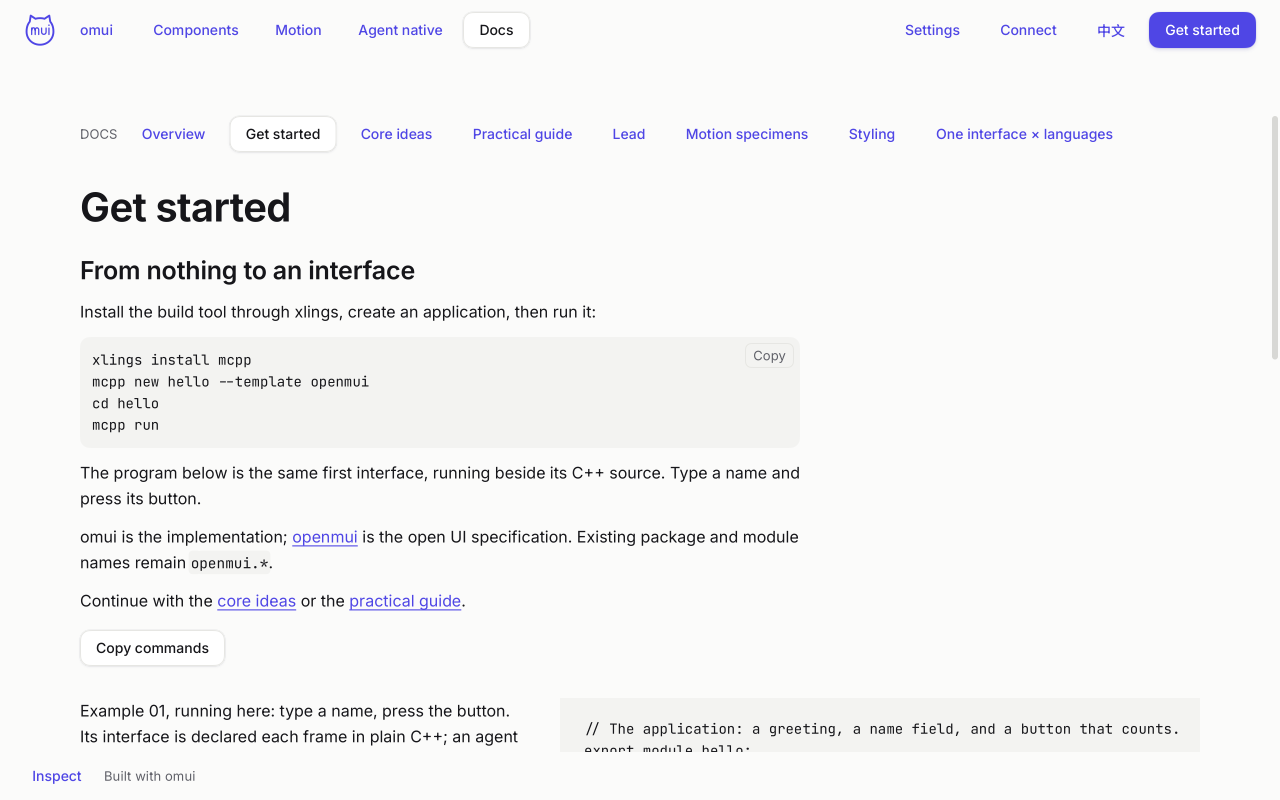
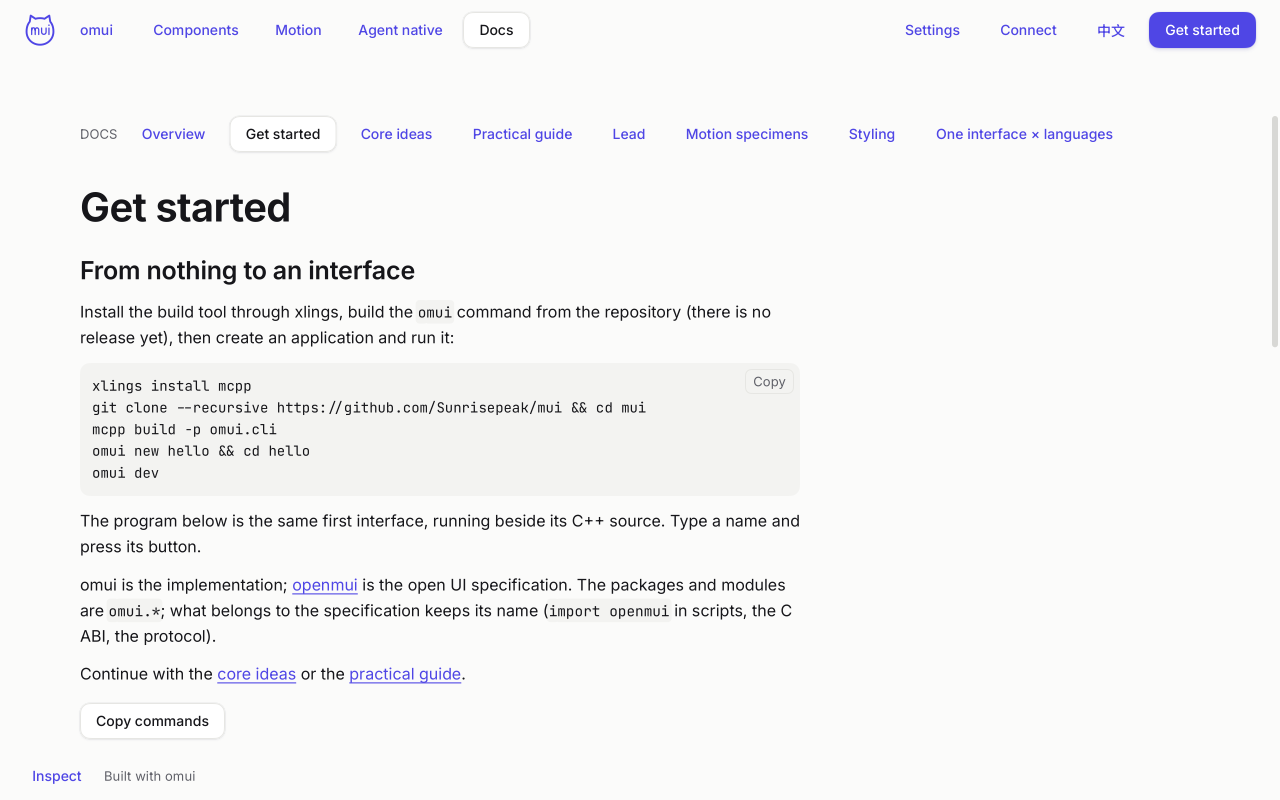
Red 116: the site's stills drawn again, its quick start corrected; headless follows a display's scale only
CI's site job (67a3a764) held site/media/structure-hello-en-desktop.png to what the tests draw: red 115 re-pinned the pixels after example 01's source changed on the page, not the published still. The suite run green at head and omui-devtools media site copied it, with the components overview (the tree's indent guides).
The page's quick start said mcpp new --template openmui (no such template) and that the packages remain openmui.*: now the guide's path — omui built from the repository, omui new, omui dev — and the packages omui.*, the specification's names kept for what is the specification's; the copy button's text and the docs search case follow. Pixels re-pinned (65e43a4856d7436f).
Headless: RC3.6's scale change followed, the window's size not — a test resizing the layout inside it and a recording over the change keep one canvas (agent_transition_layout and component_motion failed with the size followed).
Evidence: site 37 cases green locally (dev); headless_test; media site copied after a green suite.

diff --git a/modules/projects/omui/host/headless/tests/headless_test.cpp b/modules/projects/omui/host/headless/tests/headless_test.cpp
@@ -142,7 +142,7 @@ UTest cases{"headless", [] {
         expect(!h1.png().has_value()) << "no pixels at H1";
     };
 
-    "moved to a display of another scale, or resized: the pixels follow, the same as if it had started there (RC3.6)"_test = [] {
+    "moved to a display of another scale: the pixels follow, the same as if it had started there; back, as before (RC3.6)"_test = [] {
         Headless h(at(HeadlessLevel::pixels));
         Counter c;
         h.mount("main", c.view());
@@ -165,10 +165,8 @@ UTest cases{"headless", [] {
             same = std::ranges::equal(std::span(px.row(y), static_cast<std::size_t>(px.width())), std::span(want.row(y), static_cast<std::size_t>(want.width())),
                                       [](const auto& one, const auto& other_pixel) { return one.r == other_pixel.r && one.g == other_pixel.g && one.b == other_pixel.b && one.a == other_pixel.a; });
         expect(same) << "the same pixels as a window that opened on the 2x display";
-        h.step({ResizeEvent{{300, 160}, 2.0f}});
-        expect(h.pixels().width() == 600 && h.pixels().height() == 320) << "resized there";
-        h.step({ResizeEvent{{300, 160}, 1.0f}});
-        expect(h.pixels().width() == 300 && h.pixels().height() == 160) << "and back on a 1x display";
+        h.step({ResizeEvent{{240, 120}, 1.0f}});
+        expect(h.pixels().width() == 240 && h.pixels().height() == 120) << "and back on a 1x display";
     };
 
     "a recording: frames kept, written as an animated PNG whose first frame is the first kept"_test = [] {

diff --git a/site/tests/site/site_test.cpp b/site/tests/site/site_test.cpp
@@ -979,7 +979,7 @@ static UTest cases{"site", [] {
         // Re-pinned with the lead page (Part 2 §2.3): the docs' directory lists "Lead" after the practical guide.
         // Re-pinned with D-138: the docs say C++, TypeScript and view documents (features §4, the practical
         // guide's table), the interface page compares C++ and TypeScript, the combobox sample picks how a view is written.
-        expect(eq(all.hex(), std::string("b91df5b07125b4fa")));
+        expect(eq(all.hex(), std::string("65e43a4856d7436f")));
     };
 
     "the components: curated search, live detail, reset, languages and scoped appearance"_test = [] {
@@ -1181,7 +1181,7 @@ static UTest cases{"site", [] {
         expect(a.h.tree().node(read + "results/hello/open").has_value());
         expect(a.h.tree().node(read + "results/features/open").has_value());
         expect(a.h.tree().node("main/bar/nav/to_docs")->states.has(State::selected));
-        Invocation input; input.args = Value{}.set("value", "mcpp new");
+        Invocation input; input.args = Value{}.set("value", "omui new");
         expect(a.h.tree().act(read + "search", "set_value", input).exit_code() == std::optional<int>(0)); a.h.settle();
         expect(a.h.tree().node(read + "results/hello/open").has_value()) << "search includes guide content";
         input.args = Value{}.set("value", "no-such-guide-12345");

diff --git a/modules/projects/omui/host/headless/src/headless.cpp b/modules/projects/omui/host/headless/src/headless.cpp
@@ -179,10 +179,10 @@ FrameOutput Headless::step(std::vector<InputEvent> events, std::optional<seconds
         in.attribution = attribution;
     }
     FrameOutput out = d.runtime->frame(in);
-    // The window resized or moved to a display of another scale (a ResizeEvent, as a window's host gives it):
-    // its pixels follow, drawn again at the new size and scale.
-    if (d.runtime->size() != d.options.size || d.runtime->scale() != d.options.scale) {
-        d.options.size = d.runtime->size();
+    // Moved to a display of another scale (a ResizeEvent's scale, as a window's host gives it): its pixels follow,
+    // drawn again at the new scale. The window's size stays the host's (a test resizing the layout within it, a
+    // recording over the change, keep one canvas).
+    if (d.runtime->scale() != d.options.scale) {
         d.options.scale = d.runtime->scale();
         d.have_pixels = false;
     }

diff --git a/.agents/docs/STATUS.md b/.agents/docs/STATUS.md
@@ -147,6 +147,7 @@ Kind: R regression, E environment, F flaky or time, T test expectation.
 | 113 | Pages: the site's NoScript catalogue — a native link does not open the requested detail, the selected design not shown | Pages; run of 3daa00a7 | T | fixed: reproduced with Chrome 157 (Playwright's Chromium passes): the check clicked a link 100 ms after opening the disclosure above it, still growing in 157, so the click missed. It now clicks where elementFromPoint finds the control itself (retried while the layout moves); the native navigation is still required. zh and docs routes pass under 157 |
 | 114 | LLVM rows, omui workflow: omui-gen's `data.cpp` — `describe` undeclared in `mlibs::error::Error<mlibs::ts::TsError>::text` | Linux x64/arm, macOS, Windows (LLVM); run 43958282933 (188b9838) | R | fixed: `omui.lang.ts:define` returns mlibs.ts's `TsFailure` but imported mlibs.ts privately; Clang finds `describe(TsError)` only where mlibs.ts is imported (GCC was lenient). It now re-exports mlibs.ts (manifest `reexports`). The RC0.7 LLVM check was not run before that push: run it on every push that moves a module |
 | 115 | Web: the site's pinned pixels (`b91df5b0…` for `0d943038…`) and the reference run's frames | Web; run 43958282933 (188b9838) | T | cause: only `hello.png` differs (run 43837740290 vs this); the getting-started page shows example 01's own source, whose module RC3.11 renamed (`export module hello;` → `omui.example.hello_im`). Content, not drawing: re-pinned from a native run (the pins hold on every platform) |
+| 116 | Site job: `site/media/structure-hello-en-desktop.png` is not what the site's tests draw (`media --check site`); the tests themselves pass | site (release); run 43979517019 (67a3a764) | T | cause: red 115's `hello` change (example 01's source on the page) re-pinned the pixels but not the published still. Fix: media refreshed from a green suite at head; with it the page's quick start corrected (`omui new`/`omui dev`, built from the repository; the packages are `omui.*`), pins re-pinned |
 
 ### Upstream issues
 

diff --git a/site/content/start.en.md b/site/content/start.en.md
@@ -1,16 +1,17 @@
 ## From nothing to an interface
 
-Install the build tool through xlings, create an application, then run it:
+Install the build tool through xlings, build the `omui` command from the repository (there is no release yet), then create an application and run it:
 
 ```sh
 xlings install mcpp
-mcpp new hello --template openmui
-cd hello
-mcpp run
+git clone --recursive https://github.com/Sunrisepeak/mui && cd mui
+mcpp build -p omui.cli
+omui new hello && cd hello
+omui dev
 ```
 
 The program below is the same first interface, running beside its C++ source. Type a name and press its button.
 
-omui is the implementation; [openmui](https://github.com/openlifa/openmui) is the open UI specification. Existing package and module names remain `openmui.*`.
+omui is the implementation; [openmui](https://github.com/openlifa/openmui) is the open UI specification. The packages and modules are `omui.*`; what belongs to the specification keeps its name (`import openmui` in scripts, the C ABI, the protocol).
 
 Continue with the [core ideas](features.md) or the [practical guide](best-practices.md).

diff --git a/site/content/start.zh.md b/site/content/start.zh.md
@@ -1,16 +1,17 @@
 ## 从零开始，运行一个界面
 
-通过 xlings 安装构建工具，创建应用，再运行它：
+通过 xlings 安装构建工具，从仓库构建 `omui` 命令（还没有发布版），再创建应用并运行它：
 
 ```sh
 xlings install mcpp
-mcpp new hello --template openmui
-cd hello
-mcpp run
+git clone --recursive https://github.com/Sunrisepeak/mui && cd mui
+mcpp build -p omui.cli
+omui new hello && cd hello
+omui dev
 ```
 
 下面是同一个入门程序，正在它的 C++ 源码旁运行。输入名字，再按下按钮。
 
-omui 是具体实现，[openmui](https://github.com/openlifa/openmui) 是开放的 UI 规范。现有包和模块名继续使用 `openmui.*`。
+omui 是具体实现，[openmui](https://github.com/openlifa/openmui) 是开放的 UI 规范。包和模块名是 `omui.*`；属于规范的部分沿用规范的名字（脚本里的 `import openmui`、C ABI、协议）。
 
 接着阅读[核心概念](features.md)或[实践指南](best-practices.md)。
